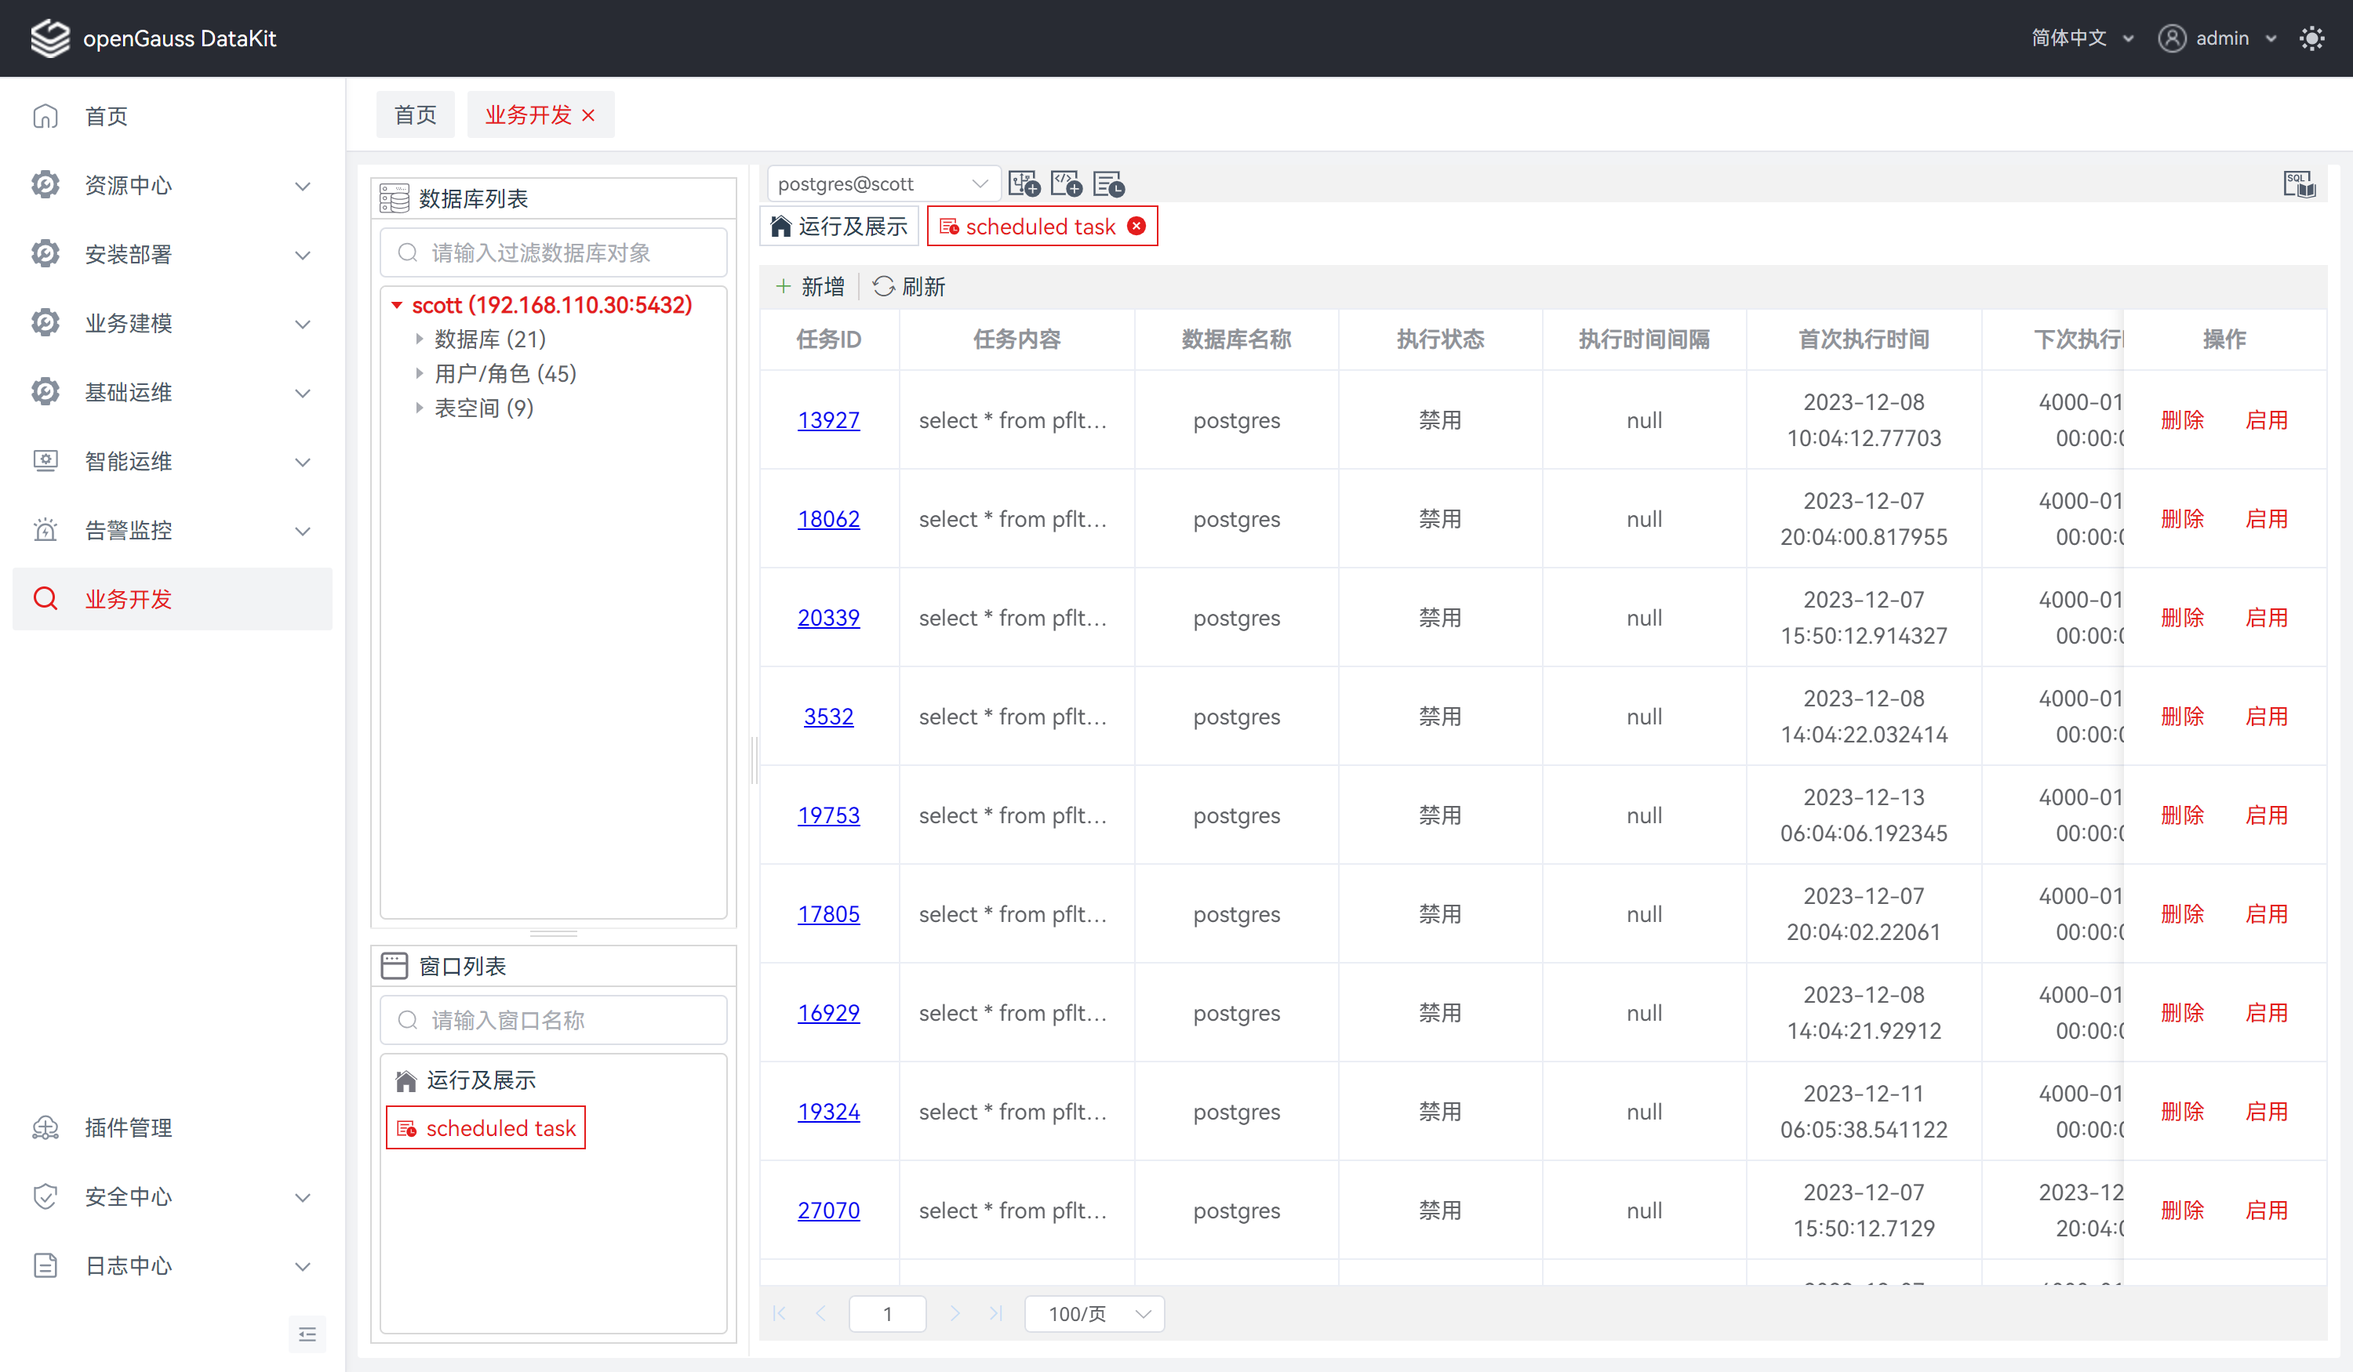
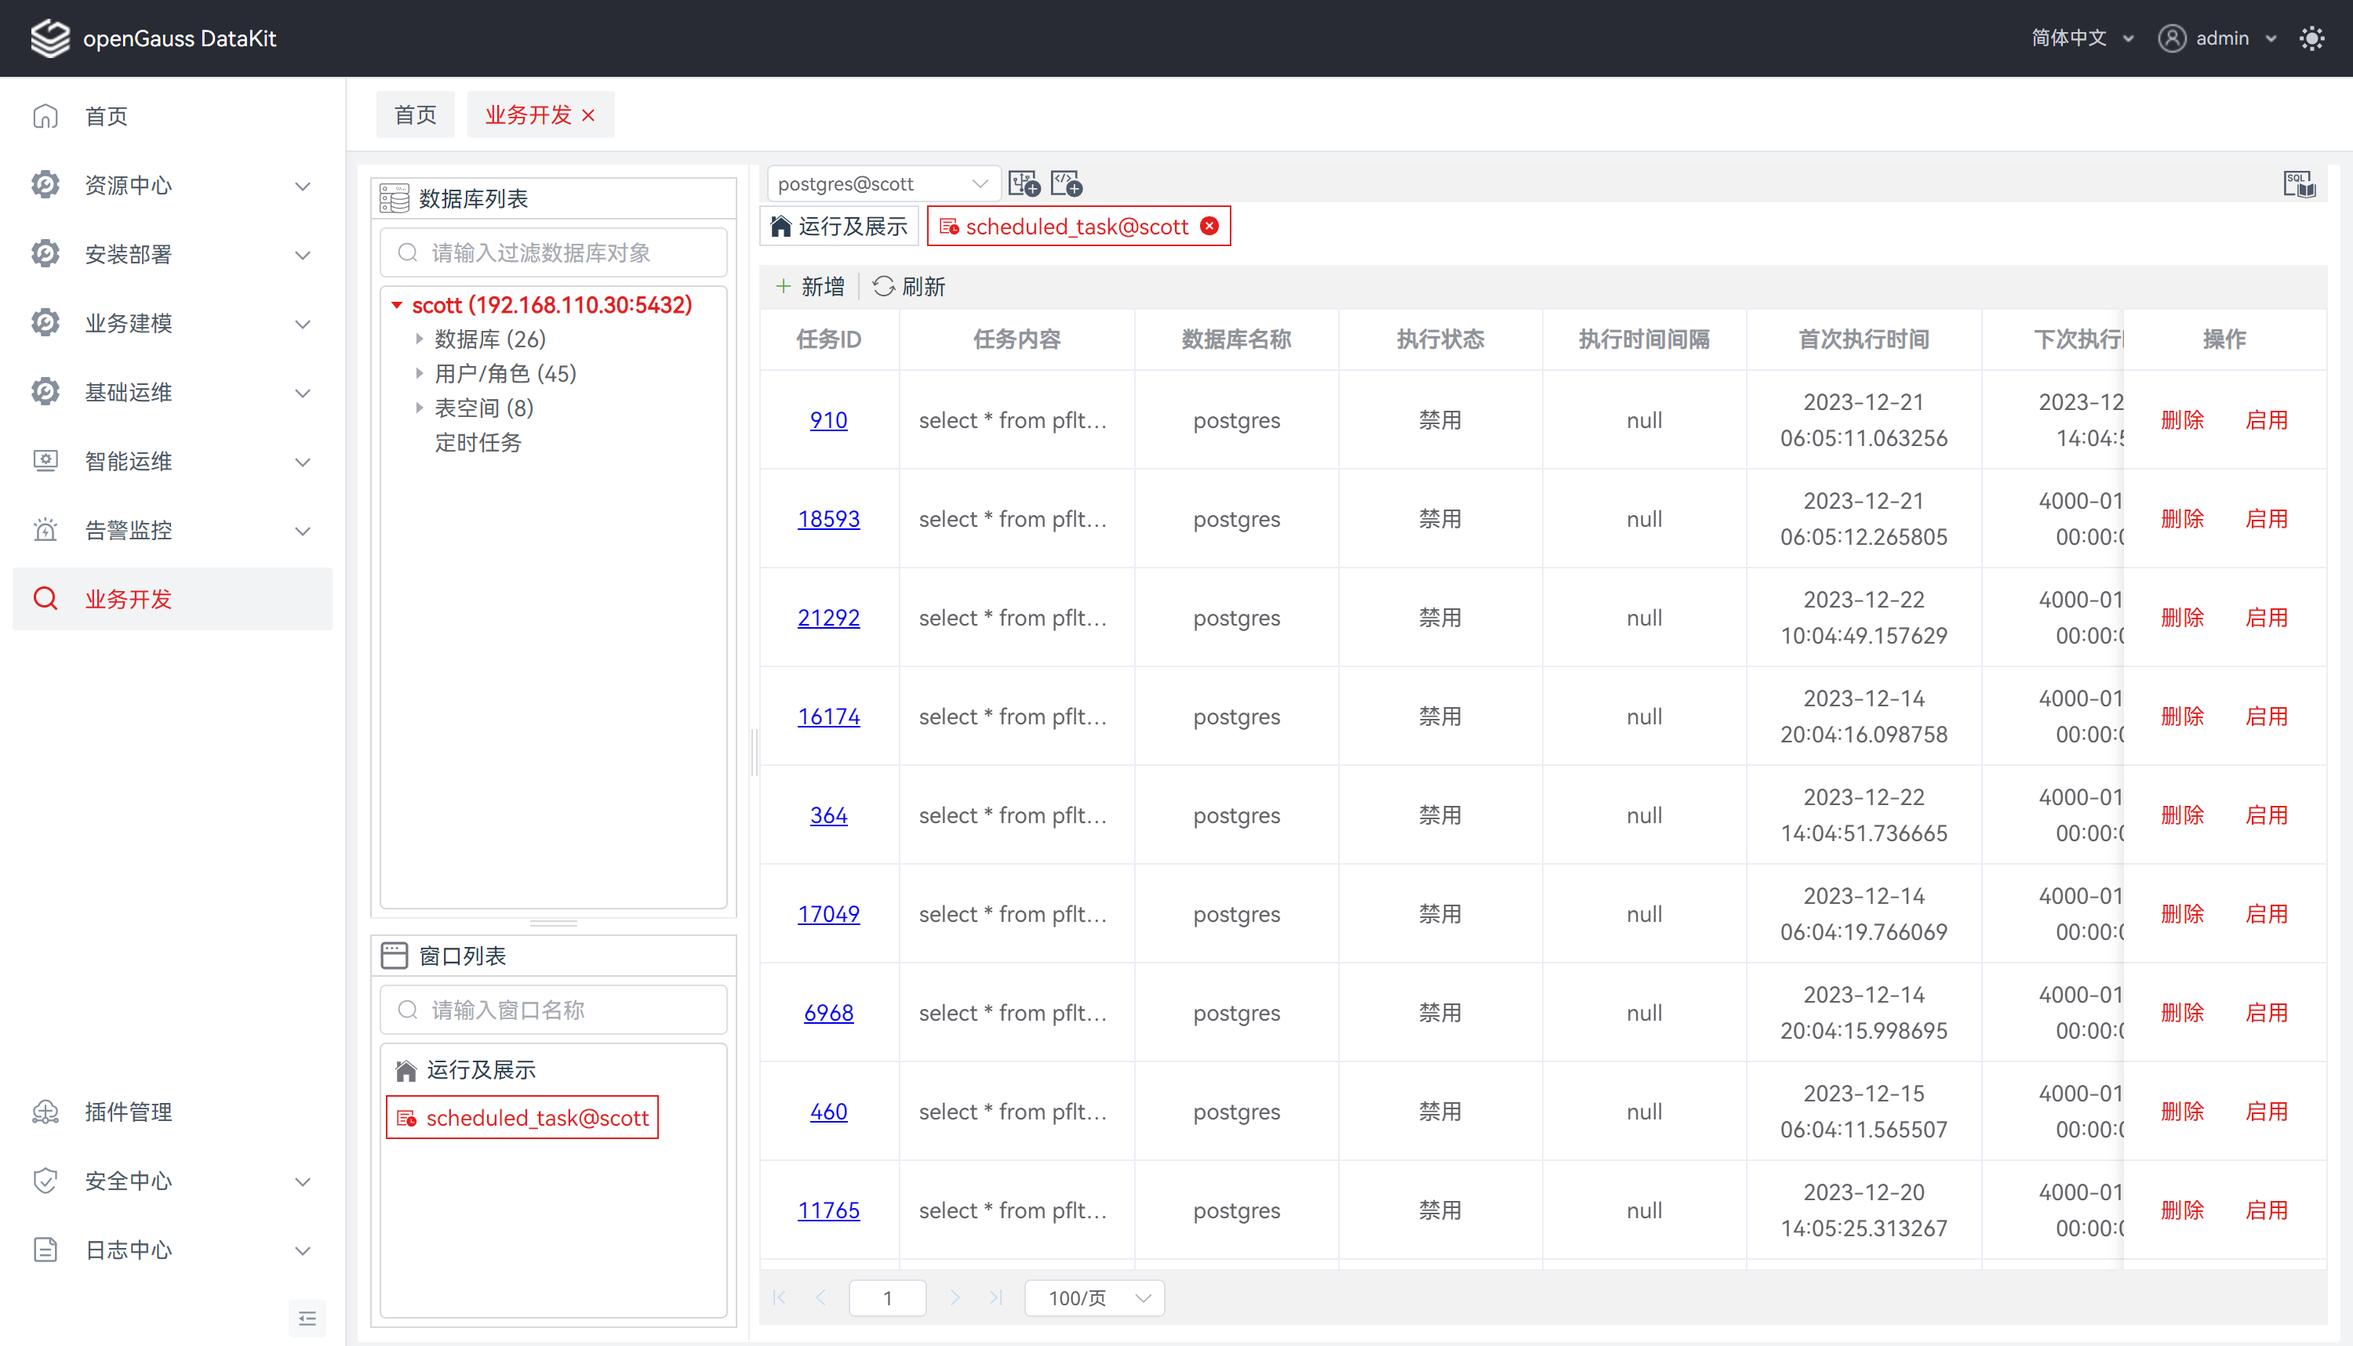
定时任务创建指定数据库与页码更改

diff --git a/plugins/data-studio/web-ui/src/views/jobs/components/CreateJobDialog.vue b/plugins/data-studio/web-ui/src/views/jobs/components/CreateJobDialog.vue
@@ -11,6 +11,20 @@
     >
       <div class="dialog_body">
         <el-form :model="form" ref="ruleFormRef" :rules="rules" label-width="140px">
+          <el-form-item
+            v-if="props.type == 'create'"
+            prop="databaseUuid"
+            :label="$t('database.database')"
+          >
+            <el-select v-model="form.databaseUuid">
+              <el-option
+                v-for="item in availDatabaseList"
+                :key="item.uuid"
+                :label="item.name"
+                :value="item.uuid"
+              />
+            </el-select>
+          </el-form-item>
           <el-form-item prop="jobContent" :label="$t('job.jobContent')">
             <AceEditor
               ref="editorRef"
@@ -82,13 +96,16 @@
   import { useI18n } from 'vue-i18n';
   import { loadingInstance } from '@/utils';
   import { createJobApi, queryAJobApi, editJobApi } from '@/api/job';
+  import { useAppStore } from '@/store/modules/app';
 
   const { t } = useI18n();
+  const AppStore = useAppStore();
   const props = withDefaults(
     defineProps<{
       modelValue: boolean;
       type: 'create' | 'edit';
       uuid: string;
+      rootId: string;
       jobId?: string;
     }>(),
     {
@@ -105,6 +122,7 @@
   const ruleFormRef = ref<FormInstance>();
   const editorRef = ref<InstanceType<typeof AceEditor>>(null);
   const form = reactive({
+    databaseUuid: '',
     jobContent: '',
     nextRunDate: '',
     interval: '',
@@ -134,7 +152,12 @@
     set: (val) => myEmit('update:modelValue', val),
   });
 
+  const availDatabaseList = computed(() => AppStore.getConnectedDatabaseByRootId(props.rootId));
+
   const handleOpen = async () => {
+    if (props.type == 'create') {
+      form.databaseUuid = availDatabaseList.value.find((item) => item.uuid == props.uuid)?.uuid;
+    }
     if (props.type == 'edit') {
       try {
         loading.value = loadingInstance();
@@ -162,7 +185,7 @@
           loading.value = loadingInstance();
           if (props.type == 'create') {
             const params = {
-              uuid: props.uuid,
+              uuid: form.databaseUuid,
               jobContent: editorRef.value.getValue(),
               nextRunDate: form.nextRunDate,
               interval: form.interval,
@@ -170,7 +193,7 @@
             await createJobApi(params);
           } else {
             const params = {
-              uuid: props.uuid,
+              uuid: form.databaseUuid,
               jobId: props.jobId,
               jobContent: editorRef.value.getValue(),
               nextRunDate: form.nextRunDate,
@@ -193,6 +216,9 @@
   .dialog {
     :deep(.el-input) {
       width: calc(100% - 20px);
+    }
+    :deep(.el-select) {
+      width: 100%;
     }
   }
   .icon {

diff --git a/plugins/data-studio/web-ui/src/views/jobs/index.vue b/plugins/data-studio/web-ui/src/views/jobs/index.vue
@@ -132,6 +132,7 @@
       :type="dialogType"
       :uuid="uuid"
       :jobId="targetJobId"
+      :rootId="rootId"
       @success="getList"
     />
   </div>
@@ -153,7 +154,7 @@
   const multipleTableRef = ref<InstanceType<typeof ElTable>>();
   const multipleSelection = ref([]);
   const visibleCreate = ref(false);
-  const rootId = route.params.rootId;
+  const rootId = route.params.rootId as string;
   const uuid = computed(() => AppStore.getConnectionOneAvailableUuid(rootId));
   const targetJobId = ref('');
   const dialogType = ref<'create' | 'edit'>('create');
@@ -204,6 +205,9 @@
   };
 
   const handleAdd = () => {
+    if (!uuid.value) {
+      return ElMessage.error(t('message.noConnectionAvailable'));
+    }
     visibleCreate.value = true;
     dialogType.value = 'create';
   };

diff --git a/plugins/data-studio/web-ui/src/store/modules/app.ts b/plugins/data-studio/web-ui/src/store/modules/app.ts
@@ -78,6 +78,9 @@ export const useAppStore = defineStore({
       const selectConnection = this.connectListMap.find((listItem) => listItem.id === rootId);
       return selectConnection?.connectInfo;
     },
+    getConnectedDatabaseByRootId(rootId) {
+      return this.connectListMap.find((listItem) => listItem.id === rootId)?.connectedDatabase;
+    },
     updataLoadEditor(value: boolean) {
       this.isLoadEditor = value;
     },

diff --git a/plugins/data-studio/web-ui/src/components/AdvancedTable/index.vue b/plugins/data-studio/web-ui/src/components/AdvancedTable/index.vue
@@ -142,7 +142,6 @@
     const tableStr = data.reduce((prev, curRow, curRowIndex) => {
       const rowStr = columns.reduce((preStr, curCol, curColIndex) => {
         let cellStr = curRow[curCol.prop] ?? '';
-        console.log(cellStr);
         if (typeof cellStr == 'string') {
           cellStr = cellStr.replaceAll('\n', '\\n');
           cellStr = cellStr.replaceAll('\r', '\\r');

diff --git a/plugins/data-studio/src/main/java/com/nctigba/datastudio/compatible/opengauss/ForeignTableSqlServiceImpl.java b/plugins/data-studio/src/main/java/com/nctigba/datastudio/compatible/opengauss/ForeignTableSqlServiceImpl.java
@@ -313,7 +313,6 @@ public class ForeignTableSqlServiceImpl implements ForeignTableSqlService {
             }
             String mappingSql = String.format(CREATE_MAPPING_SQL, DebugUtils.needQuoteName(request.getRole()),
                     request.getForeignServer(), request.getRemoteUsername(), desEncrypt(request.getRemotePassword()));
-            log.info("ForeignTableSqlServiceImpl createMapping sql: " + mappingSql);
             statement.execute(mappingSql);
         }
     }
@@ -496,7 +495,12 @@ public class ForeignTableSqlServiceImpl implements ForeignTableSqlService {
         String[] split = substring.split(COMMA);
         for (String str : split) {
             String[] item = str.split("=");
-            map.put(item[0], item[1]);
+            if (item[0].contains("\"")) {
+                String newStr = item[1].substring(2, item[1].length() - 3);
+                map.put(item[0].replace("\"", ""), newStr.replace("\\\"\\\"", "\""));
+            } else {
+                map.put(item[0], item[1]);
+            }
         }
         log.info("ForeignTableSqlServiceImpl parseString map: " + map);
         return map;

diff --git a/plugins/data-studio/src/main/java/com/nctigba/datastudio/dao/SqlHistoryTemplateDAO.java b/plugins/data-studio/src/main/java/com/nctigba/datastudio/dao/SqlHistoryTemplateDAO.java
@@ -102,7 +102,6 @@ public class SqlHistoryTemplateDAO implements ApplicationRunner {
      * @param list list
      */
     public void insertSqlHistory(List<SqlHistoryDO> list) {
-        log.info("AsyncHelper insertSqlHistory list: " + list);
         String webUser = list.get(0).getWebUser();
         Integer lockCount = queryCount(webUser, true);
         Integer unlockCount = queryCount(webUser, false);
@@ -197,6 +196,13 @@ public class SqlHistoryTemplateDAO implements ApplicationRunner {
      */
     public void deleteById(SqlHistoryDO sqlHistoryDO) {
         log.info("SqlHistoryTemplate deleteTable sqlHistoryDO: " + sqlHistoryDO);
+        Integer id = sqlHistoryDO.getId();
+        Boolean isLock = jdbcTemplate.queryForObject(
+                "select lock from sqlHistory where id = " + id + ";", Boolean.class);
+        log.info("SqlHistoryTemplate deleteTable isLock: " + isLock);
+        if (Boolean.TRUE.equals(isLock)) {
+            throw new CustomException(LocaleStringUtils.transLanguage("2021"));
+        }
         jdbcTemplate.execute("delete from sqlHistory where id = " + sqlHistoryDO.getId() + ";");
     }
 

diff --git a/plugins/data-studio/src/main/java/com/nctigba/datastudio/compatible/opengauss/CronJobSqlServiceImpl.java b/plugins/data-studio/src/main/java/com/nctigba/datastudio/compatible/opengauss/CronJobSqlServiceImpl.java
@@ -98,8 +98,8 @@ public class CronJobSqlServiceImpl implements CronJobSqlService {
 
             Object obj = ExecuteUtils.executeGetOne(connection, QUERY_JOB_COUNT_SQL);
             int count = 0;
-            if (obj instanceof Integer) {
-                count = (int) obj;
+            if (obj instanceof Long) {
+                count = Math.toIntExact((Long) obj);
             }
             Map<String, Object> map = new HashMap<>();
             map.put("pageSize", pageSize);
@@ -141,8 +141,8 @@ public class CronJobSqlServiceImpl implements CronJobSqlService {
         try (
                 Connection connection = connectionConfig.connectDatabase(request.getUuid())
         ) {
-            String sql = String.format(CREATE_JOB_SQL, request.getJobContent(), request.getNextRunDate(),
-                    request.getInterval());
+            String sql = String.format(CREATE_JOB_SQL, request.getJobContent().replace("'", "\""),
+                    request.getNextRunDate(), request.getInterval());
             ExecuteUtils.execute(connection, sql);
         }
     }

diff --git a/plugins/data-studio/src/main/java/com/nctigba/datastudio/compatible/opengauss/UserObjectSQLServiceImpl.java b/plugins/data-studio/src/main/java/com/nctigba/datastudio/compatible/opengauss/UserObjectSQLServiceImpl.java
@@ -247,11 +247,8 @@ public class UserObjectSQLServiceImpl implements UserObjectSQLService {
 
     @Override
     public String updateUserPassword(UpdateUserPasswordDTO request) {
-        String ddl;
-        ddl = String.format(UPDAT_USER_PASSWORD_SQL, request.getType(), request.getUserName(),
+        return String.format(UPDAT_USER_PASSWORD_SQL, request.getType(), request.getUserName(),
                 desEncrypt(request.getNewPassword()), desEncrypt(request.getOldPassword()));
-        log.info("updateUserPassword response is: " + ddl);
-        return ddl;
     }
 
 

diff --git a/plugins/data-studio/readme.md b/plugins/data-studio/readme.md
@@ -1,4 +1,4 @@
-# 业务开发用户手册
+# 业务开发用户操作手册
 
 
 
@@ -2549,7 +2549,9 @@ mvn clean package -P prod
 
 **修改数据**
 
-        与普通表操作表数据同，详情请参见 **5.3.4.1 操作表数据**
+        除外表不支持自定义唯一键外，其他操作与普通表操作表数据同，详情请参见 **5.3.4.1 操作表数据**
+
+        **说明：** 外表数据操作内核不支持添加约束，故无法设置自定义唯一键，待内核完善后补齐该功能。
 
 <img src="photo/5-12-2.4.png" style="zoom:67%;" />
 
@@ -2785,9 +2787,9 @@ mvn clean package -P prod
 
 #### 5.15.1 查看定时任务
 
-              执行如下步骤在数据库中查看定时任务信息：
+              执行如下步骤在连接实例中查看实例下所有数据库的定时任务信息：
 
-**步骤 1：** 在页签上方的工具栏中，选择<img src="photo/icon_task.png" style="zoom: 50%;" />定时任务，跳转至定时任务列表页面。
+**步骤 1：** 在 "**数据库列表**" 窗格中，单击连接名称下的 "**定时任务**" ，跳转至定时任务列表页面。
 
                 **说明：** 点击定时任务页面操作栏中的<img src="photo/icon_refreshtask.png" style="zoom: 50%;" />，可刷新定时任务列表信息。
 
@@ -2805,9 +2807,9 @@ mvn clean package -P prod
 
 #### 5.15.2 创建定时任务
 
-              执行如下步骤在数据库中定义定时任务：
+              执行如下步骤定义数据库中的定时任务：
 
-**步骤 1：** 在页签上方的工具栏中，选择<img src="photo/icon_task.png" style="zoom: 50%;" />定时任务，跳转至定时任务列表页面。
+**步骤 1：** 在 "**数据库列表**" 窗格中，单击连接名称下的 "**定时任务**" ，跳转至定时任务列表页面。
 
 **步骤 2：** 点击定时任务页面操作栏中的<img src="photo/icon_addtask.png" style="zoom: 50%;" />，弹出 "**创建定时任务**" 对话框。
 
@@ -2817,6 +2819,7 @@ mvn clean package -P prod
 
 | **配置项**       | **必填** | **配置说明**                                                 |
 | ---------------- | -------- | ------------------------------------------------------------ |
+| 数据库           | 否       | 用于指定定时任务所对应的数据库。默认为当前连接实例对应的数据库，下拉选项为当前连接实例所有已连接的数据库 |
 | 任务内容         | 是       | 用于填写要执行的SQL语句。支持一个或多个‘DML’，‘匿名块’，‘调用存储过程的语句’或3种混合的场景 |
 | 下次作业运行时间 | 是       | 用于指定下次作业运行时间，默认值为当前系统时间（sysdate）。如果是过去时间，在提交作业时表示立即执行 |
 | 时间表达式       | 否       | 用于计算下次作业运行时间的时间表达式，可以是interval表达式，也可以是sysdate加上一个numeric值（例如：sysdate+1.0/24）。如果为空值或字符串"null"表示只执行一次，执行后 JOB 状态 STATUS 变成'd' 不再执行 |
@@ -2827,9 +2830,9 @@ mvn clean package -P prod
 
 #### 5.15.3 编辑定时任务
 
-              执行如下步骤在数据库中编辑定时任务：
+              执行如下步骤编辑数据库中的定时任务：
 
-**步骤 1：** 在页签上方的工具栏中，选择<img src="photo/icon_task.png" style="zoom: 50%;" />定时任务，跳转至定时任务列表页面。
+**步骤 1：** 在 "**数据库列表**" 窗格中，单击连接名称下的 "**定时任务**" ，跳转至定时任务列表页面。
 
 **步骤 2：** 定时任务页面列表中的任务ID，如<img src="photo/icon_taskid.png" style="zoom: 50%;" />，弹出 "**编辑定时任务**" 对话框。
 
@@ -2851,9 +2854,9 @@ mvn clean package -P prod
 
 #### 5.15.4 启用/禁用定时任务
 
-               执行如下步骤修改定时任务状态：
+               执行如下步骤修改数据库中的定时任务状态：
 
-**步骤 1：** 在页签上方的工具栏中，选择<img src="photo/icon_task.png" style="zoom: 50%;" />定时任务，跳转至定时任务列表页面。
+**步骤 1：** 在 "**数据库列表**" 窗格中，单击连接名称下的 "**定时任务**" ，跳转至定时任务列表页面。
 
 **步骤 2：** 点击定时任务页面列表中的"**启用**"或"**禁用**"操作，弹出修改定时任务状态确认框。
 
@@ -2869,9 +2872,9 @@ mvn clean package -P prod
 
 #### 5.15.5 删除定时任务
 
-              执行如下步骤在数据库中删除定时任务：
+              执行如下步骤删除数据库中的定时任务：
 
-**步骤 1：** 在页签上方的工具栏中，选择<img src="photo/icon_task.png" style="zoom: 50%;" />定时任务，跳转至定时任务列表页面。
+**步骤 1：** 在 "**数据库列表**" 窗格中，单击连接名称下的 "**定时任务**" ，跳转至定时任务列表页面。
 
 **步骤 2：** 点击定时任务页面列表中的"**删除**"操作，弹出 "**删除定时任务**" 确认框。
 
